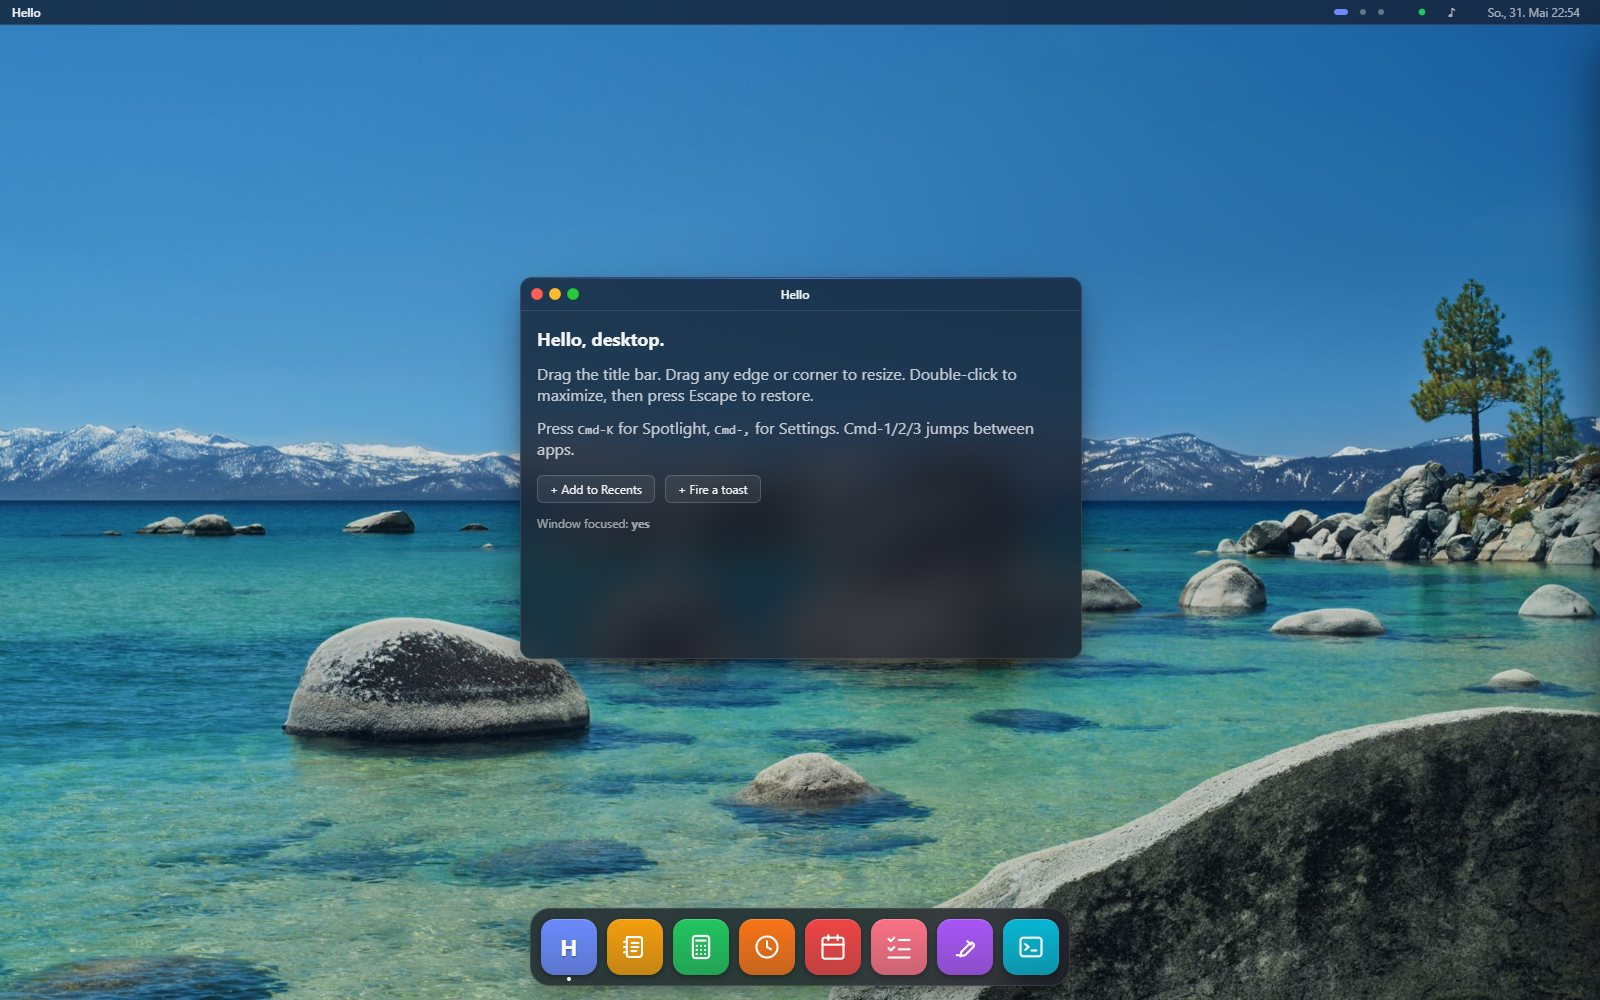
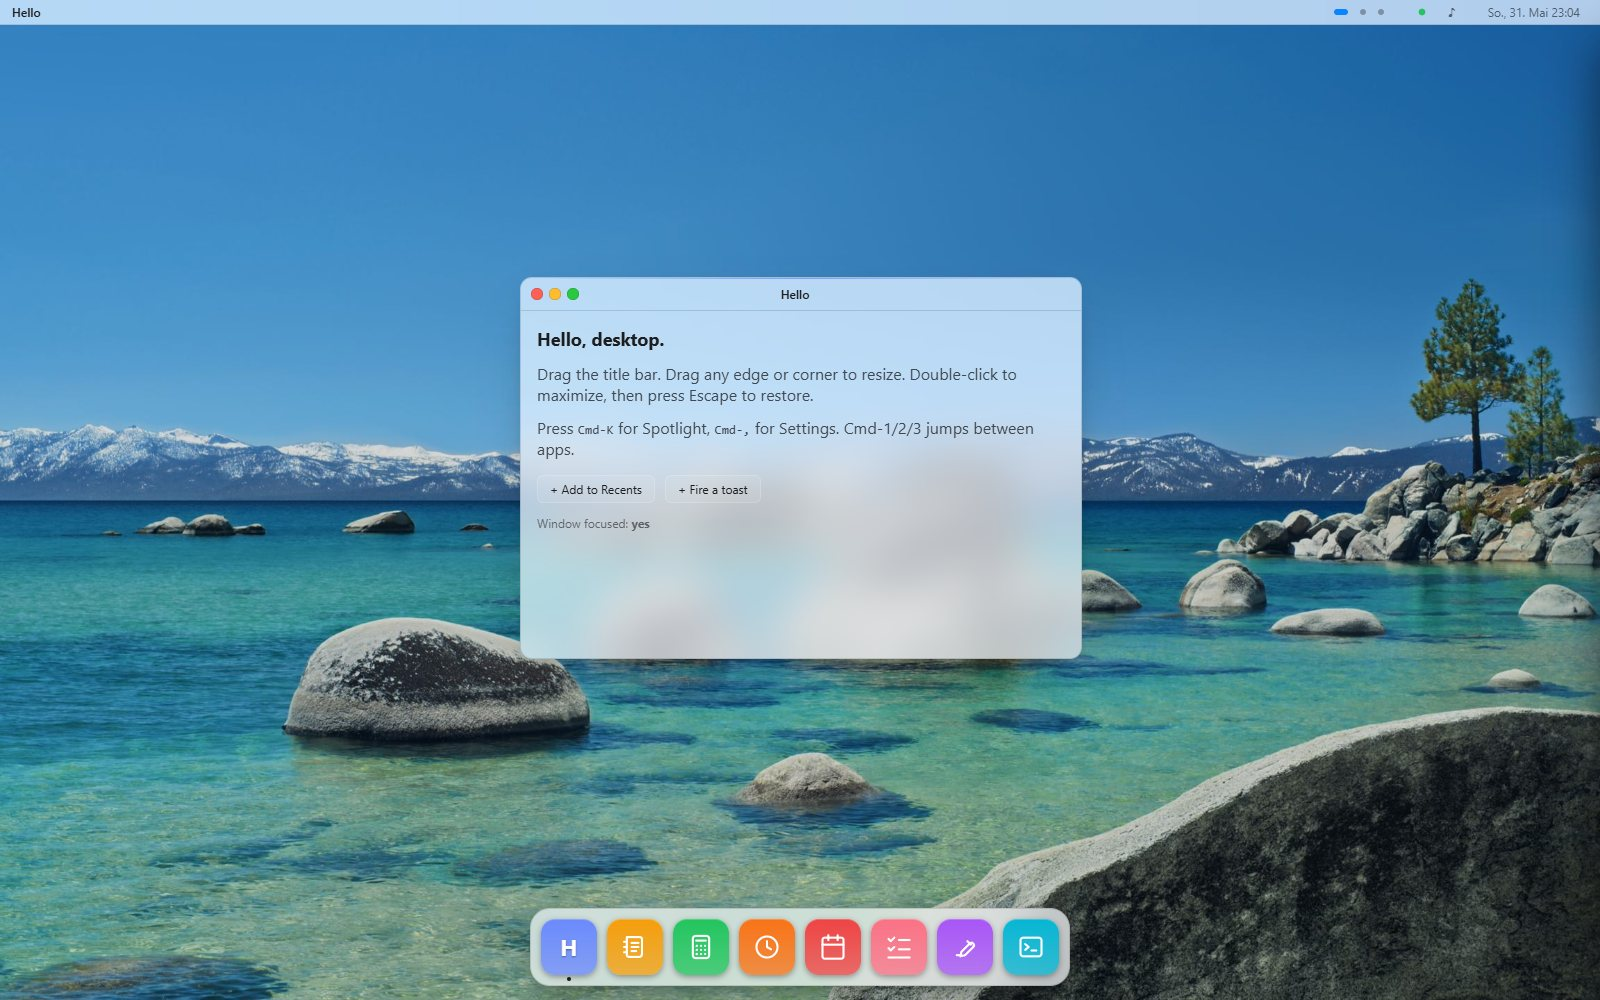
feat(theme-macos): light appearance to match the macOS reference
The theme was a dark register, but real macOS in its default light appearance
(and the Tahoe Day wallpaper in the reference) reads light: translucent
vibrancy surfaces tinted by the wallpaper, near-black label text, the system
blue accent, and soft window shadows.

- Light palette: light vibrancy surfaces, Apple's #1d1d1f label text, a
  black-at-12% hairline.
- Default accent is now the macOS "Blue" control accent (#0a84ff), and the
  Settings accent options are the macOS System Settings palette (Blue, Purple,
  Pink, Red, Orange, Green).
- Softer window shadows suited to a light surface.

Refresh the docs/README macOS screenshot to the new look.

Changed region(s): [[0.3125, 0.279, 0.6875, 0.682], [0.3125, 0.899, 0.6875, 0.992], [0.0, 0.0, 1.0, 0.031]]

diff --git a/packages/theme-macos/src/index.ts b/packages/theme-macos/src/index.ts
@@ -28,17 +28,22 @@ export interface MacosThemeOptions {
  * customizations never leak between consumers.
  */
 export function createMacosTheme(options: MacosThemeOptions = {}): OsTheme {
-  const accent = options.accent ?? "#6b8afd";
+  // macOS "Blue" accent, the default highlight color (System Settings >
+  // Appearance). Apple ships it as the system control-accent blue.
+  const accent = options.accent ?? "#0a84ff";
   return {
     id: "macos",
     name: "macOS",
     palette: {
-      background: "#1e2129",
-      surface: "rgba(28, 30, 38, 0.78)",
-      textPrimary: "#f1f3f8",
-      textSecondary: "rgba(241, 243, 248, 0.65)",
+      // Light appearance, matching the Tahoe Day wallpaper in the reference.
+      // Surfaces are a light vibrancy material (translucent so the wallpaper
+      // tints them through the blur); text is Apple's near-black label color.
+      background: "#f4f5f7",
+      surface: "rgba(246, 247, 249, 0.72)",
+      textPrimary: "#1d1d1f",
+      textSecondary: "rgba(0, 0, 0, 0.55)",
       accent,
-      border: "rgba(255, 255, 255, 0.10)",
+      border: "rgba(0, 0, 0, 0.12)",
     },
     shape: {
       windowRadius: 12,
@@ -60,9 +65,12 @@ export function createMacosTheme(options: MacosThemeOptions = {}): OsTheme {
       spotlight: "blur(28px) saturate(160%)",
     },
     elevation: {
+      // Light appearance: macOS floats windows on a soft, wide shadow, far
+      // lighter than a dark surface needs (a heavy black halo reads as muddy
+      // over light vibrancy).
       windowFocused:
-        "0 20px 50px -12px rgba(0,0,0,0.55), 0 8px 18px -6px rgba(0,0,0,0.35)",
-      windowUnfocused: "0 10px 24px -8px rgba(0,0,0,0.4)",
+        "0 22px 48px -16px rgba(0,0,0,0.28), 0 6px 16px -8px rgba(0,0,0,0.18)",
+      windowUnfocused: "0 10px 26px -14px rgba(0,0,0,0.18)",
     },
     wallpaper: {
       // No wallpaper reads as the bare skeleton; supply one for the Mac look.
@@ -81,7 +89,9 @@ export function createMacosTheme(options: MacosThemeOptions = {}): OsTheme {
         section: "Appearance",
         label: "Accent color",
         description: "Tints the dock tile gradients and focused-window highlight.",
-        options: ["#6b8afd", "#f59e0b", "#22c55e", "#a855f7", "#ec4899", "#06b6d4"],
+        // The macOS System Settings accent palette: Blue, Purple, Pink, Red,
+        // Orange, Green.
+        options: ["#0a84ff", "#8944ab", "#f74f9e", "#ff5257", "#f7821b", "#62ba46"],
       },
       "shape.windowRadius": {
         kind: "range",